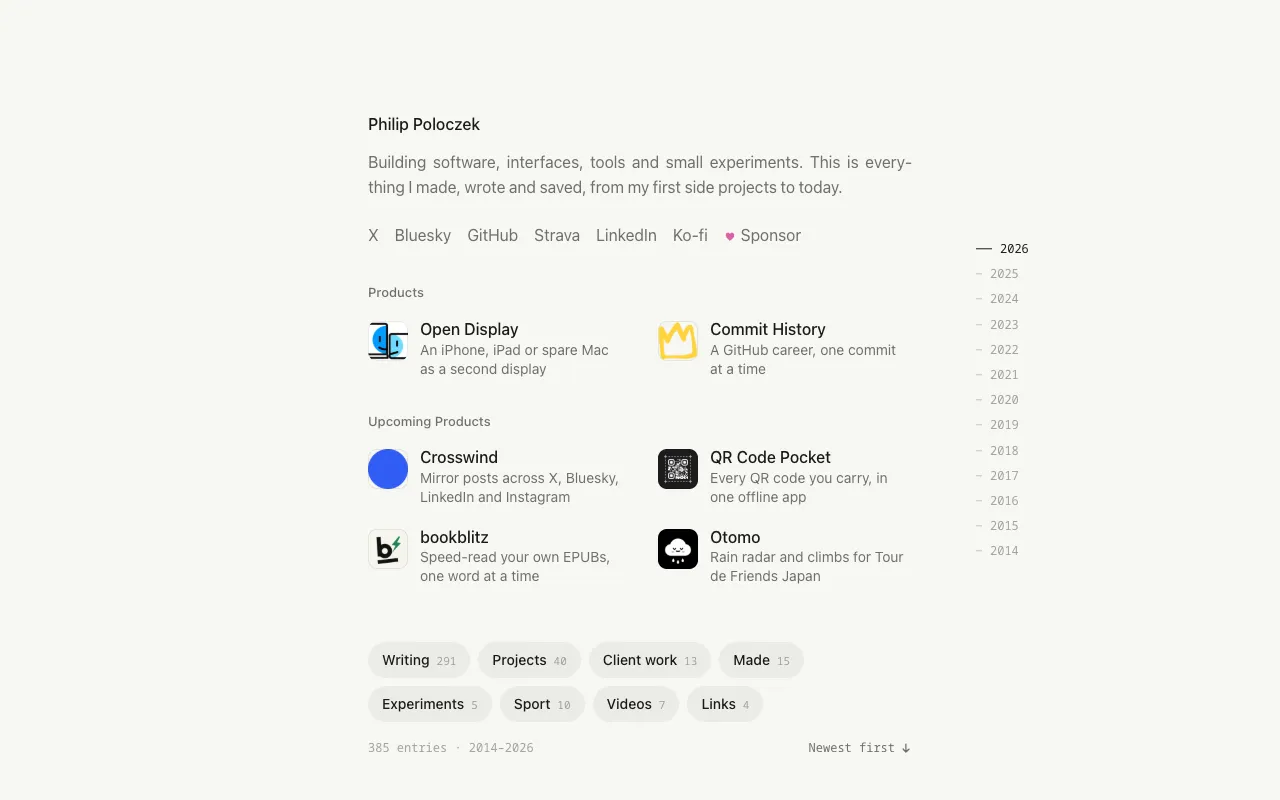
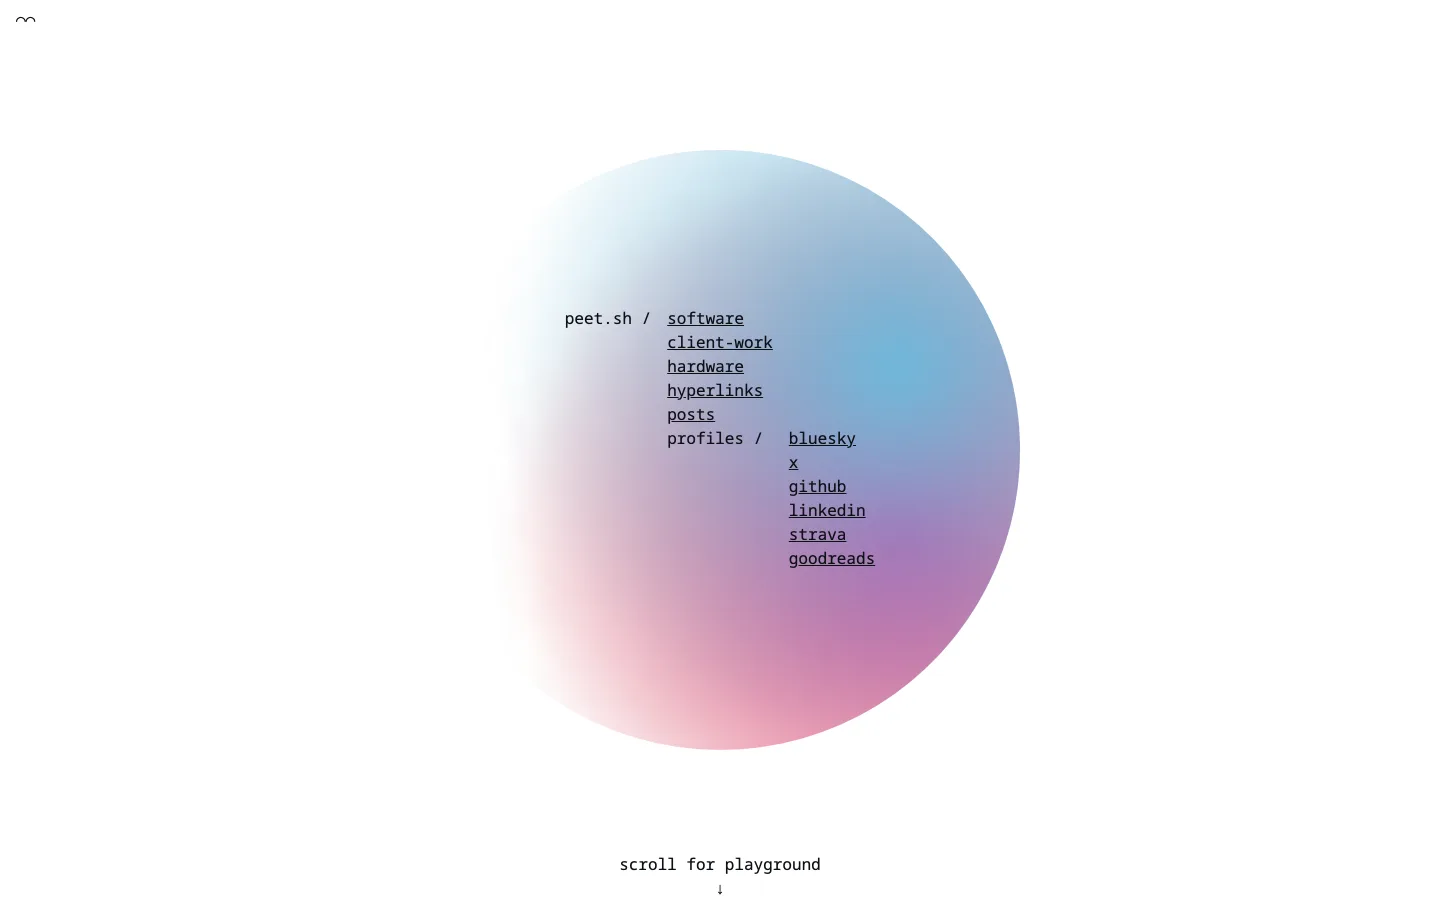
feat: the redesign entry scrolls through the old peetzweg.com
Captured on desktop (1440x900 at 2x) from production before the switch, Strava
section shot on screen so its embeds show. Lossless copy in docs/archive. The scroll
also runs on the entry's own page now.

diff --git a/apps/www/src/content/timeline/entries.ts b/apps/www/src/content/timeline/entries.ts
@@ -118,7 +118,7 @@ $ matcrawl search "<query>" --limit 20`),
   ),
   'peetzweg.com, redesigned': scroll(
     'redesign-site',
-    'The new peetzweg.com on a desktop, from the top: intro, products, filters and the latest months of the timeline',
+    'The old peetzweg.com on a desktop, top to bottom: the gradient circle with links, days spent reading, Strava rides, kilometres run, 3D flowers, generative sketches and a terminal of projects',
   ),
 };
 

diff --git a/apps/www/src/timeline.css b/apps/www/src/timeline.css
@@ -1176,7 +1176,8 @@ a.tl-url:focus-visible {
 }
 
 @media (prefers-reduced-motion: no-preference) {
-  .tl-scroll .tl-image {
+  /* Specific enough to win over `.tl-single .tl-image`, which stills pictures on entry pages. */
+  .tl-media.tl-scroll .tl-image {
     animation: tl-scroll var(--tl-scroll-duration, 40s) infinite alternate;
     animation-play-state: paused;
   }

diff --git a/docs/timeline-rework.md b/docs/timeline-rework.md
@@ -33,7 +33,7 @@ Every entry has a page: posts, experiments and collections their existing routes
 ## Homepage top
 
 - [x] Projects under the intro, as icon, name and one line, linking to their sites, in two groups (`content/timeline/featured.ts`; icons are `media/icon-<name>.webp`). Products: Open Display, Commit History. Upcoming Products: Crosswind, QR Code Pocket, bookblitz, Otomo.
-- [x] The redesign entry scrolls through a desktop screenshot of the homepage's first 14,000 px (`media/redesign-site.webp`, its first screen as `-poster`). Retake it after big changes: capture it with entry fade-in, the grey-until-centred effect, the fixed year list and the sticky year heads switched off, twice, so the entry in the shot shows its own frame.
+- [x] The redesign entry scrolls through the old peetzweg.com, captured on desktop (1440 × 900 at 2×) from production on 2026-11-21, before the switch (`media/redesign-site.webp`, its first screen as `-poster`). A full-page screenshot leaves the Strava embeds blank, so that section was shot on screen and put in its place. Lossless copy: `docs/archive/peetzweg.com-2026-11-21-desktop.webp`.
 - [x] Sponsor link to github.com/sponsors/peetzweg beside the profiles.
 
 ## Tweets and videos
